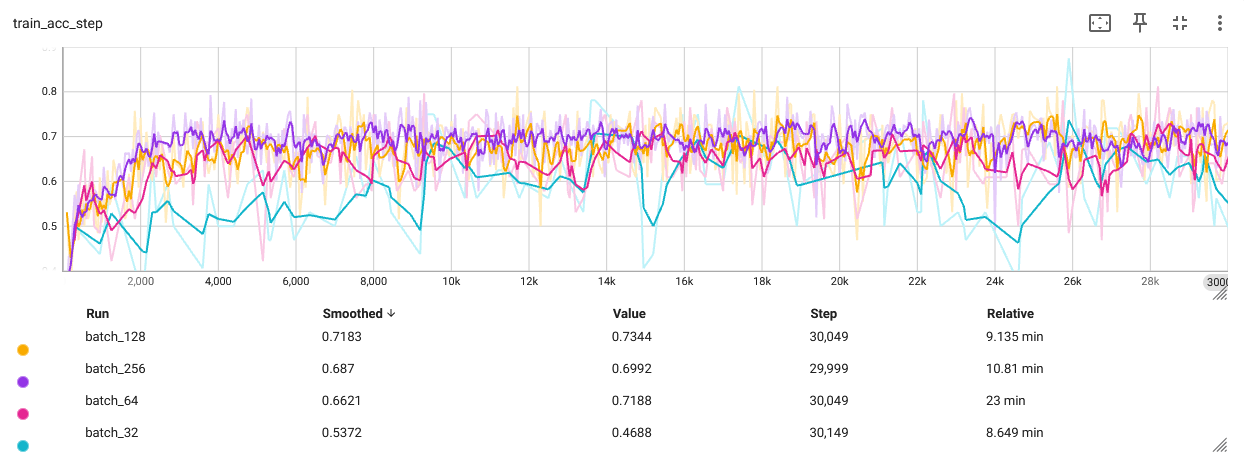
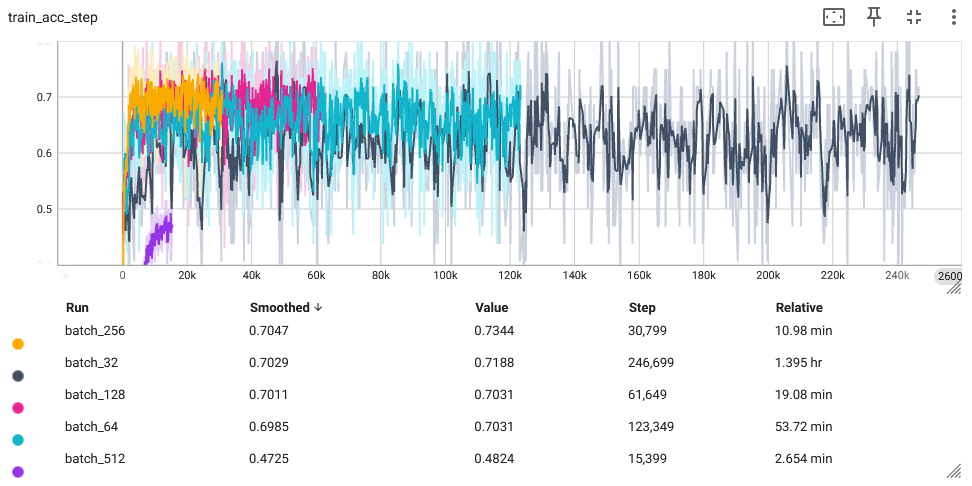
Lab1 write up half way

diff --git a/mlir-air-output/lab1/lab1.md b/mlir-air-output/lab1/lab1.md
@@ -1,6 +1,42 @@
 ## Varying the Parameters
-### 1 What is the impact of varying batch sizes and why?
-![Batch Size Learning Curve](Results/batch_size_lc.png)
-*Figure 1: Batch Size vs Training Learning Curve*
+### 1. What is the impact of varying batch sizes and why?
 
-The batch size demonstrates 
+Batch sizes of 10, 20, 50 and 100 will be tested using the `JSC-Tiny` model on the `JSC` dataset. All other hyperparamters are set to the default machop values most importantly - Learning Rate: 1e-5, Max Epochs: 20.
+![Batch Size Learning Curve](Results/batch_size_lc.png)
+
+*Figure 1: Train Learning Curve with Different Batch Sizes*
+
+Smaller batch sizes have a higher number of steps compared to larger batch sizes due to the need to perform more updates in a given epoch, hence the rate of change of accuracy is higher as batch size increases. Batch-sizes 32, 64, 128, 256 all have similar accuracy, achieving around 70%. The lines are noisy, indicating variance in accuracy from step to step, which is most prominent in smaller batch sizes, 32 and 64.
+
+Modern hardware, particularly GPUs, are designed for parallel processing. Setting a larger batch size in training will maximise parallism, thus leading to a lower training runtime, if there is sufficient RAM/VRAM. This is extremely visible in this experiment, where a batch size of 32 takes over 90 minutes, whilst a batch-size of 512 takes just 2 minutes.
+
+![Batch Size Learning Curve](Results/batch_size_lc_val.png)
+
+*Figure 2: Validation Learning Curve with Different Batch Sizes*
+
+The validation accuracy figure shows a simlilar story, with little difference between training and validation accuracy. This would indicate litle overfitting and shows the model has sufficient training data to generalize well. A Batch-size of 256 is chosen since it performs best in both validation accuracy and runtime.
+
+### 2. What is the impact of varying maximum epoch number?
+![Epoch Learning Curve](Results/epochs_lc.png)
+*Figure 3: Train Learning Curve with Different Maximum Epcohs.*
+
+Due to the size of the model relative to the training dataset, there is a higher amount of data for the model to learn without many repeated trainings of the dataset. Hence there are no signs of underfitting, even at 5 epochs. Increasing the maximum number of epochs beyond this point could lead to poor generalization as the model overfits to the training data. 10 epochs is more than sufficient to train the model, however early stopping could be employed to mitigate the effects of overfitting. 
+
+### 3. What is happening with a large learning and what is happening with a small learning rate and why? What is the relationship between learning rates and batch sizes?
+![Learning Rate Learning Curve](Results/learning_rate_lc.png)
+
+*Figure 4: Train Learning Curve with Different Learning Rates.*
+
+Learning rate dictates the step size that is taken to reach a minimum of a loss function during trainingduring stochastic gradient descent. Too high a learning rate can lead to spikey training curves and a model that converges to a local minima, rather than the global minima, particularly in a non-convex optimisation problem. Too low a learning curve, results in a longer runtime for the model to converge. 
+
+![Learning Rate Learning Curve](Results/learning_rate_lc_val.png)
+
+*Figure 5: Validation Learning Curve with Different Learning Rates.*
+The highest learning rate of 1e-3 shows to perform well here, although there is a marinal decrease in performance overtime. Thus 1e-4 could be considered the optimal learning rate as it converges on the final accuracy in a smoother manner.
+
+Adaptive learning rates can accelerate training whilst ensuring strong convergence and could be employed.
+
+Smaller batch sizes might require more updates and hence more epochs to converge, which can be computationally expensive despite the faster per-update computation. A larger learning rate with small batches can accelerate convergence but at the risk of overshooting minima. Conversely, larger batches can utilize larger learning rates to potentially speed up convergence, but this can lead to suboptimal solutions if the learning rate is not adjusted appropriately. For this model, a batch-size of 256 and a learning rate of 1e-3 prevents significant overshooting whilst still converging quickly. 
+
+
+
